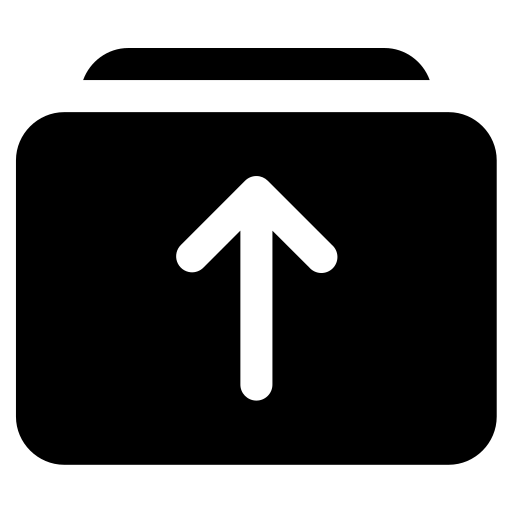
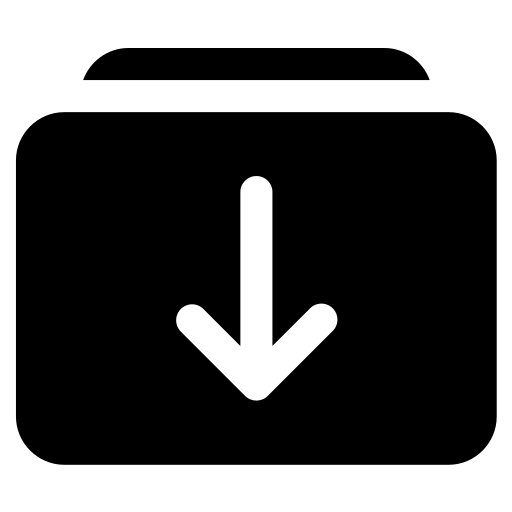
Add files via upload

diff --git a/index.html b/index.html
@@ -11,7 +11,7 @@
   <link rel="manifest" href="manifest.webmanifest">
   <link rel="icon" href="icons/icon-192.png">
   <link rel="apple-touch-icon" href="icons/icon-192.png">
-  <link rel="stylesheet" href="styles.v2.5.4.css">
+  <link rel="stylesheet" href="styles.v2.5.5.css">
   <script>
     if ('serviceWorker' in navigator && location.protocol !== 'file:') {
       navigator.serviceWorker.register('./sw.js', { scope: './' }).catch(error => {
@@ -84,7 +84,7 @@
   <aside class="app-sidebar" id="appSidebar">
     <div class="sidebar-brand">
       <button class="brand-mark logo-mark" id="homeBtn" title="Dashboard"><img src="icons/icon-192.png" alt="TERYAQ logo"></button>
-      <div class="sidebar-brand-copy"><strong>TERYAQ</strong><small>Master Tool · <span id="sidebarAppVersion">v2.5.4</span></small></div>
+      <div class="sidebar-brand-copy"><strong>TERYAQ</strong><small>Master Tool · <span id="sidebarAppVersion">v2.5.5</span></small></div>
       <button class="sidebar-collapse" id="sidebarCollapse" aria-label="Collapse sidebar" aria-expanded="true" title="Collapse sidebar"><span data-ui-icon="panel-close"></span></button>
       <button class="sidebar-close" id="sidebarClose" aria-label="Close menu"><span data-ui-icon="close"></span></button>
     </div>
@@ -113,7 +113,7 @@
       <div class="action-cluster">
         <button class="btn primary" id="syncBtn"><span data-ui-icon="refresh"></span><span>Sync Now</span></button>
         <button class="btn conflict-summary hidden" id="resolveConflictsBtn"><span data-ui-icon="conflict"></span><span>Conflicts</span></button>
-        <button class="btn" id="importBtn"><span data-ui-icon="upload"></span><span>Import</span></button>
+        <button class="btn" id="importBtn"><span data-ui-icon="import"></span><span>Import</span></button>
       </div>
       <input id="importFile" type="file" accept=".teryaq,.json,application/json" hidden>
     </div>
@@ -129,16 +129,16 @@
           <button class="btn" id="settingsBtnEditor"><span data-ui-icon="settings"></span><span>Settings & Sync</span></button>
         </div>
         <div class="action-cluster secondary-actions">
-          <button class="btn" id="editorImportBtn"><span data-ui-icon="upload"></span><span>Import</span></button>
+          <button class="btn" id="editorImportBtn"><span data-ui-icon="import"></span><span>Import</span></button>
           <button class="btn" id="validateBtn"><span data-ui-icon="check-circle"></span><span>Validate</span></button>
           <button class="btn" id="historyBtn" title="Recovery snapshots and earlier document states"><span data-ui-icon="history"></span><span>History / Versions</span></button>
           <div class="export-menu" id="exportMenu">
-            <button class="btn export-menu-trigger" id="exportMenuButton" type="button" aria-haspopup="menu" aria-expanded="false"><span data-ui-icon="download"></span><span>Export</span><span data-ui-icon="chevron-down"></span></button>
+            <button class="btn export-menu-trigger" id="exportMenuButton" type="button" aria-haspopup="menu" aria-expanded="false"><span data-ui-icon="export"></span><span>Export</span><span data-ui-icon="chevron-down"></span></button>
             <div class="export-menu-panel hidden" id="exportMenuPanel" role="menu" aria-label="Export options">
               <button id="backupBtn" type="button" role="menuitem"><span class="export-option-icon" data-ui-icon="documents"></span><span><b>Export Draft (.teryaq)</b><small>Editable and re-importable document</small></span></button>
               <button id="printBtn" type="button" role="menuitem"><span class="export-option-icon" data-ui-icon="text"></span><span><b>Export as PDF</b><small>Open the A4 print and PDF dialog</small></span></button>
               <button id="saveTemplateBtn" type="button" role="menuitem"><span class="export-option-icon" data-ui-icon="templates"></span><span><b>Save as Template</b><small>Create a reusable local template</small></span></button>
-              <button id="htmlExportBtn" type="button" role="menuitem"><span class="export-option-icon" data-ui-icon="download"></span><span><b>Export as HTML</b><small>Standalone view with embedded font</small></span></button>
+              <button id="htmlExportBtn" type="button" role="menuitem"><span class="export-option-icon" data-ui-icon="export"></span><span><b>Export as HTML</b><small>Standalone view with embedded font</small></span></button>
             </div>
           </div>
           <button class="btn icon-action" data-action="undo" title="Undo" aria-label="Undo"><span data-ui-icon="undo"></span></button>
@@ -169,7 +169,7 @@
   <main>
     <section class="view active" id="homeView">
       <div class="portal-page">
-        <div class="hero dashboard-hero"><div class="hero-copy"><span class="eyebrow">Dashboard</span><h2>Welcome, <span id="welcomeEmail"></span></h2><p>Your scientific workspace is ready. Create, edit offline, and synchronize safely when the connection returns.</p><span class="version-badge">TERYAQ Master Tool <b id="appVersionBadge">v2.5.4</b></span></div><button class="btn primary new-document-btn" id="newDocumentBtn">+ New document</button></div>
+        <div class="hero dashboard-hero"><div class="hero-copy"><span class="eyebrow">Dashboard</span><h2>Welcome, <span id="welcomeEmail"></span></h2><p>Your scientific workspace is ready. Create, edit offline, and synchronize safely when the connection returns.</p><span class="version-badge">TERYAQ Master Tool <b id="appVersionBadge">v2.5.5</b></span></div><button class="btn primary new-document-btn" id="newDocumentBtn">+ New document</button></div>
         <div class="stat-grid" id="dashboardStats"></div>
         <section class="portal-panel dashboard-updates-panel"><div class="section-head"><div><span class="eyebrow">WHAT'S NEW</span><h3>Updates & announcements</h3></div><button class="text-button" id="dashboardMarkUpdatesRead" type="button">Mark all read</button></div><div class="dashboard-updates" id="dashboardUpdates"></div></section>
         <div class="portal-grid two-thirds">
@@ -213,26 +213,27 @@
         <div class="editor-ribbon left-panel" id="leftPanel">
             <button class="mobile-controls-toggle" id="mobileControlsToggle"><span>Editing Controls</span><span data-ui-icon="chevron-down"></span></button>
             <div class="editor-ribbon-tabs" role="tablist" aria-label="Document editing tools">
-              <button class="editor-ribbon-tab active" type="button" role="tab" data-ribbon-tab="home" aria-selected="true">Home</button>
+              <button class="editor-ribbon-tab active" type="button" role="tab" data-ribbon-tab="styles" aria-selected="true">Styles</button>
+              <button class="editor-ribbon-tab" type="button" role="tab" data-ribbon-tab="formatting" aria-selected="false">Text Formatting</button>
               <button class="editor-ribbon-tab" type="button" role="tab" data-ribbon-tab="insert" aria-selected="false">Insert</button>
               <button class="editor-ribbon-tab" type="button" role="tab" data-ribbon-tab="table" aria-selected="false" disabled title="Select a table cell to use table tools">Table</button>
               <button class="editor-ribbon-tab" type="button" role="tab" data-ribbon-tab="view" aria-selected="false">View</button>
             </div>
             <div class="left-panel-inner">
-              <details class="control-group ribbon-panel" data-ribbon-panel="home" open>
+              <details class="control-group ribbon-panel" data-ribbon-panel="styles" open>
                 <summary>Styles</summary>
                 <div class="control-body">
                   <button class="btn" data-style="Normal">Body</button><button class="btn" data-style="Heading1">H1</button><button class="btn" data-style="Heading2">H2</button><button class="btn" data-style="Heading3">H3</button><button class="btn" data-style="Heading4">H4</button><button class="btn" data-style="Subtitle">Side Q/A</button><button class="btn" data-style="TableCaption">Table Caption</button>
                   <button class="btn" data-mark="SideNote">Side Note</button><button class="btn danger" data-mark="NotesToDelete">Note to Delete</button><button class="btn" data-mark="HighYield">High-Yield</button><button class="btn" data-mark="ClinicalCorrelation">Clinical Correlation</button>
                 </div>
               </details>
-              <details class="control-group ribbon-panel" data-ribbon-panel="home" open>
+              <details class="control-group ribbon-panel" data-ribbon-panel="formatting" open hidden>
                 <summary>Text Formatting</summary>
                 <div class="control-body"><select id="fontSizeSelect"><option value="">Font size</option><option>9</option><option>10</option><option>11</option><option>12</option><option>13</option><option>14</option><option>16</option><option>18</option><option>20</option><option>22</option><option>24</option></select><button class="btn" id="boldBtn"><b>B</b> Bold</button><button class="btn" id="italicBtn"><i>I</i> Italic</button></div>
               </details>
-              <details class="control-group ribbon-panel" data-ribbon-panel="home" open>
+              <details class="control-group ribbon-panel" data-ribbon-panel="formatting" open hidden>
                 <summary>Bullets & Numbering</summary>
-                <div class="control-body"><button class="btn" data-action="bullet" data-level="1"><span data-ui-icon="bullet-1"></span> Level 1</button><button class="btn" data-action="bullet" data-level="2"><span data-ui-icon="bullet-2"></span> Level 2</button><button class="btn" data-action="bullet" data-level="3"><span data-ui-icon="bullet-3"></span> Level 3</button><button class="btn" id="numberBtn">1. Number</button></div>
+                <div class="control-body"><button class="btn" data-action="bullet" data-level="1"><span data-ui-icon="bullet-1"></span> Level 1</button><button class="btn" data-action="bullet" data-level="2"><span data-ui-icon="bullet-2"></span> Level 2</button><button class="btn" data-action="bullet" data-level="3"><span data-ui-icon="bullet-3"></span> Level 3</button><button class="btn" id="numberBtn"><span class="number-glyph" aria-hidden="true">1.</span><span>Number</span></button></div>
               </details>
               <details class="control-group ribbon-panel" data-ribbon-panel="insert" open hidden>
                 <summary>Insert</summary>
@@ -318,7 +319,7 @@
 <div class="modal hidden" id="modal"><div class="modal-card"><div style="display:flex;justify-content:flex-end"><button class="btn" id="closeModal">Close</button></div><div id="modalBody"></div></div></div>
 <div class="toast" id="toast"></div>
 <script src="vendor/jszip.min.js"></script>
-<script src="platform.v2.5.4.js"></script>
-<script src="app.v2.5.4.js"></script>
+<script src="platform.v2.5.5.js"></script>
+<script src="app.v2.5.5.js"></script>
 </body>
 </html>

diff --git a/sw.js b/sw.js
@@ -1,4 +1,4 @@
-const CACHE = 'teryaq-master-tool-v2.5.4-custom-icons-2';
+const CACHE = 'teryaq-master-tool-v2.5.5-ribbon-loader-icons-1';
 const SCOPE_URL = new URL(self.registration.scope);
 const ROOT_URL = SCOPE_URL.href;
 const APP_SHELL_URL = new URL('index.html', SCOPE_URL).href;
@@ -6,9 +6,9 @@ const APP_SHELL_URL = new URL('index.html', SCOPE_URL).href;
 const CORE_ASSETS = [
   ROOT_URL,
   APP_SHELL_URL,
-  new URL('styles.v2.5.4.css', SCOPE_URL).href,
-  new URL('platform.v2.5.4.js', SCOPE_URL).href,
-  new URL('app.v2.5.4.js', SCOPE_URL).href,
+  new URL('styles.v2.5.5.css', SCOPE_URL).href,
+  new URL('platform.v2.5.5.js', SCOPE_URL).href,
+  new URL('app.v2.5.5.js', SCOPE_URL).href,
   new URL('vendor/jszip.min.js', SCOPE_URL).href,
   new URL('vendor/JSZip-LICENSE.md', SCOPE_URL).href,
   new URL('manifest.webmanifest', SCOPE_URL).href,

diff --git a/supabase/functions/admin-account-request/index.ts b/supabase/functions/admin-account-request/index.ts
@@ -1,6 +1,6 @@
 import { createClient } from 'https://esm.sh/@supabase/supabase-js@2'
 
-const FUNCTION_VERSION = '2.5.3-admin-invite-2'
+const FUNCTION_VERSION = '2026-09-25-admin-invite-3'
 
 const corsHeaders = {
   'Access-Control-Allow-Origin': '*',

diff --git a/verify_package.py b/verify_package.py
@@ -4,11 +4,12 @@ import re, sys
 root=Path(__file__).parent
 required=[
     'index.html','styles.css','platform.js','app.js',
-    'styles.v2.5.4.css','platform.v2.5.4.js','app.v2.5.4.js',
+    'styles.v2.5.5.css','platform.v2.5.5.js','app.v2.5.5.js',
     'sw.js','manifest.webmanifest','README.md','UPDATE_AND_MIGRATION_POLICY.md',
-    'UPLOAD_v2.5.4.md','EDGE_FUNCTIONS_SETUP.md','render.yaml','VERSION.json',
+    'UPLOAD_v2.5.5.md','EDGE_FUNCTIONS_SETUP.md','render.yaml','VERSION.json',
     'supabase/migrations/010_governance_admin_tools.sql',
     'supabase/migrations/011_v2_5_1_profiles_updates.sql',
+    'supabase/migrations/012_service_role_profiles_select.sql',
     'supabase/functions/admin-account-request/index.ts',
     'supabase/functions/admin-governance/index.ts',
     'vendor/jszip.min.js','vendor/JSZip-LICENSE.md',
@@ -198,15 +199,15 @@ for forbidden in ['.p-Normal{','.p-Heading1{','.p-Heading2{','.p-Heading3{','.p-
         print('V2.4 LAYOUT MUST NOT OVERRIDE DOCUMENT STYLE:',forbidden);sys.exit(1)
 
 version=(root/'VERSION.json').read_text(encoding='utf-8')
-if '"appVersion": "2.5.4"' not in version or '"cloudMigrationVersion": 11' not in version or "teryaq-master-tool-v2.5.4" not in (root/'sw.js').read_text(encoding='utf-8'):
-    print('VERSION/CACHE MISMATCH: expected v2.5.4 / migration 11');sys.exit(1)
-for source,versioned in [('app.js','app.v2.5.4.js'),('platform.js','platform.v2.5.4.js'),('styles.css','styles.v2.5.4.css')]:
+if '"appVersion": "2.5.5"' not in version or '"cloudMigrationVersion": 12' not in version or "teryaq-master-tool-v2.5.5" not in (root/'sw.js').read_text(encoding='utf-8'):
+    print('VERSION/CACHE MISMATCH: expected v2.5.5 / migration 12');sys.exit(1)
+for source,versioned in [('app.js','app.v2.5.5.js'),('platform.js','platform.v2.5.5.js'),('styles.css','styles.v2.5.5.css')]:
     if (root/source).read_bytes()!=(root/versioned).read_bytes():
         print('STALE VERSIONED ASSET:',versioned);sys.exit(1)
-for ref in ['styles.v2.5.4.css','platform.v2.5.4.js','app.v2.5.4.js','vendor/jszip.min.js']:
+for ref in ['styles.v2.5.5.css','platform.v2.5.5.js','app.v2.5.5.js','vendor/jszip.min.js']:
     if ref not in html:
         print('MISSING VERSIONED ASSET REFERENCE:',ref);sys.exit(1)
-for number in range(1,12):
+for number in range(1,13):
     if not list((root/'supabase'/'migrations').glob(f'{number:03d}_*.sql')):
         print('MISSING CLOUD MIGRATION:',number);sys.exit(1)
 migration9=(root/'supabase'/'migrations'/'009_content_options_repair_course_hierarchy.sql').read_text(encoding='utf-8')
@@ -223,6 +224,17 @@ migration11=(root/'supabase'/'migrations'/'011_v2_5_1_profiles_updates.sql').rea
 for marker in ['avatar_path','create table if not exists public.app_updates','create table if not exists public.app_update_reads','app_updates_admin_insert','app_update_reads_own_insert',"notify pgrst, 'reload schema'"]:
     if marker not in migration11:
         print('INCOMPLETE V2.5.1 PROFILE/UPDATES MIGRATION:',marker);sys.exit(1)
+migration12=(root/'supabase'/'migrations'/'012_service_role_profiles_select.sql').read_text(encoding='utf-8')
+for marker in ['grant usage on schema public to service_role', 'grant select on table public.profiles to service_role']:
+    if marker not in migration12:
+        print('INCOMPLETE SERVICE ROLE INVITE REPAIR:', marker);sys.exit(1)
+for marker in ['data-ribbon-tab="styles"','data-ribbon-tab="formatting"','data-ribbon-panel="formatting"','data-ui-icon="import"','data-ui-icon="export"']:
+    if marker not in html:
+        print('MISSING V2.5.5 RIBBON OR ICON:', marker);sys.exit(1)
+if 'adminLoadingMarkup(label)' not in platform or '#adminSectionLoading' not in styles or '.export-menu-panel{position:absolute' not in styles:
+    print('MISSING V2.5.5 LOADER OR EXPORT ANCHOR');sys.exit(1)
+if 'admin-trash-select' not in platform or 'adminPurgeSelected' not in platform or 'eligibleIds' not in platform or 'Retention period has not expired' not in (root/'supabase/functions/admin-governance/index.ts').read_text(encoding='utf-8'):
+    print('TRASH SELECTION MUST KEEP THE SERVER RETENTION RULE');sys.exit(1)
 for marker in ['uploadPendingAvatar','getUpdates','markAllUpdatesRead','createAppUpdate','deleteAppUpdate','processMediaQueue','createTusUpload','getAttachmentPreview','admin-center-shell']:
     if marker not in platform:
         print('MISSING V2.5.1 PLATFORM MARKER:',marker);sys.exit(1)

diff --git a/UPLOAD_v2.5.5.md b/UPLOAD_v2.5.5.md
@@ -1,0 +1,17 @@
+# TERYAQ Master Tool v2.5.5 — deployment and review
+
+## Deploy
+
+1. Replace the repository files with the contents of this release folder, including `icons/ui/`, all three `*.v2.5.5.*` assets, and `supabase/migrations/012_service_role_profiles_select.sql`.
+2. Commit and deploy to Render. The versioned assets and service worker cache are updated to v2.5.5 to avoid stale CSS and icons. Open the app online once on each device and verify the displayed version.
+3. If the previous service-role invitation repair was already run in Supabase, no SQL or Edge Function redeployment is needed. The migration and function source in this package record that applied repair for future installations. A fresh installation should apply migrations 001–012 in order and deploy both Edge Functions following `EDGE_FUNCTIONS_SETUP.md`.
+
+## Review
+
+- Open a document: Styles shows every style preset; Text Formatting shows Font size, Bold, Italic, three bullet levels, and Number. Insert, Table (enabled upon selecting a table cell), and View still work as before.
+- Check that Font size has the same text and control height as Bold and Italic. The four bullet and numbering buttons have equal width and height.
+- Click Export on desktop and a narrow window: its menu sits directly below its button. Import uses a downward arrow; Export uses an upward arrow.
+- Open Admin Center → Cloud Operations on a slow connection: the green pulse and accessible loading label remain visible until cloud data is ready. The animation stops when the section loads; reduced-motion settings show a static indicator.
+- In Admin Center → Trash Management, select files using the row checkboxes or Select all. Delete permanently becomes available for a selection only when all selected files are at least 30 days old. The existing server-side retention rule stays in force; confirmation requires typing `PURGE N`, where N is the number selected.
+
+The loading motion takes inspiration from [cosnametv's Dynamic Pulse Loader on Uiverse](https://uiverse.io/cosnametv/spotty-starfish-76). The markup and CSS here were independently written to match the TERYAQ palette; no video or network asset is loaded at runtime.

diff --git a/README.md b/README.md
@@ -1,4 +1,12 @@
-# TERYAQ Master Tool — Multi-user Offline-First v2.5.4
+# TERYAQ Master Tool — Multi-user Offline-First v2.5.5
+
+## v2.5.5 ribbon and loading refinements
+
+- Splits Home into Styles and Text Formatting while retaining Insert, Table, and View. Text controls and bullet/numbering buttons now share consistent sizing.
+- Anchors the Export menu immediately below its trigger on desktop and mobile. Import points into the app (down), and Export points out (up).
+- Displays a brand-colored accessible pulse while an Admin Center section is fetching cloud data, including while partial sections render.
+- Adds checkboxes and a selection count to Admin Trash Management. Selected documents can be permanently deleted together only when every selected item has completed the existing 30-day retention period; the server checks the same rule again.
+- Records migration 012 (the service-role profiles read grant already applied during the invite repair), and syncs the deployed account-request Edge Function source into the release. Existing installations that applied the repair do not rerun SQL.
 
 ## v2.5.4 complete styles and approved icons
 
@@ -205,6 +213,7 @@ Apply the SQL migrations **in numerical order**:
 9. `009_content_options_repair_course_hierarchy.sql`
 10. `010_governance_admin_tools.sql`
 11. `011_v2_5_1_profiles_updates.sql`
+12. `012_service_role_profiles_select.sql` (if the service-role invite repair was already applied, no SQL action is needed)
 
 Do not combine future schema changes into these files after production use begins. Add `005_...sql`, `006_...sql`, etc.
 

diff --git a/EDGE_FUNCTIONS_SETUP.md b/EDGE_FUNCTIONS_SETUP.md
@@ -55,8 +55,8 @@ In **Authentication → URL Configuration**:
 ## If the function says `Admin access required`
 
 The signed-in account exists, but its row in `public.profiles` is not marked as
-an administrator. Run migration `011_v2_5_1_profiles_updates.sql` again, then
-promote only the approved administrator email from the Supabase SQL Editor:
+an administrator. If the role is genuinely missing, promote only the approved
+administrator email from the Supabase SQL Editor:
 
 ```sql
 update public.profiles
@@ -65,6 +65,12 @@ where lower(email) = lower('approved-admin@example.com');
 ```
 
 Sign out and back in after the update so the app reloads the current profile.
+
+If the profile already has `role = 'admin'` and the invitation function still
+reports an authorization failure, verify that the Edge Function's service role
+can read `public.profiles`. Migration `012_service_role_profiles_select.sql`
+records the narrowly scoped grant used for this repair. Once it has already
+been applied, it does not need to be run again.
 
 If SQL already shows `role = 'admin'` but the function still rejects the
 request, confirm that the authenticated user ID and profile ID are the same:
